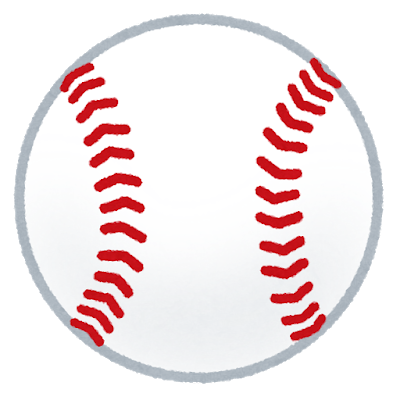
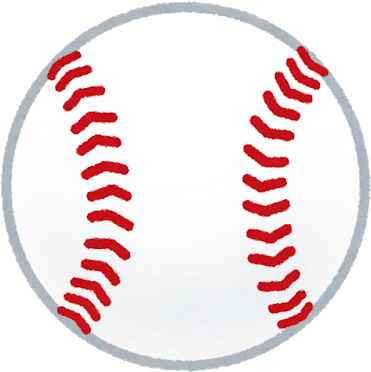
fet: impl cut png image

Changed region(s): [[0.0, 0.0, 1.0, 1.0]]

diff --git a/puppy/png_cut.py b/puppy/png_cut.py
@@ -1,0 +1,21 @@
+from PIL import Image, ImageChops  # pip install pillow
+import os
+import glob
+
+usrdir = './client/static/image/'
+pngfiles = glob.glob(os.path.join(usrdir, '*.png'))
+
+for file in pngfiles:
+  img = Image.open(file)
+  # img.show()
+  name, ext = os.path.splitext(os.path.basename(file))
+
+  bg = Image.new(img.mode, img.size, img.getpixel((0, 0)))  # 左上のピクセルで画像を作る
+  diff = ImageChops.difference(img, bg)
+  diff = ImageChops.add(diff, diff, 2.0, -100)
+  bbox = diff.getbbox()
+
+  cropped = img.crop(bbox)    # 元画像を切り出す
+  # cropped.show()
+  cropped.save(file)  # 上書き保存
+  # print(os.path.join(usrdir, '{}.png'.format(name))) 別名で保存するならここで変える
